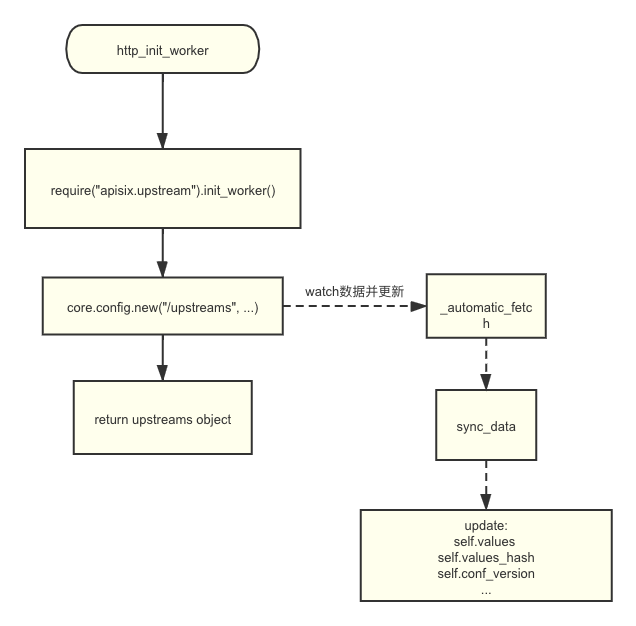
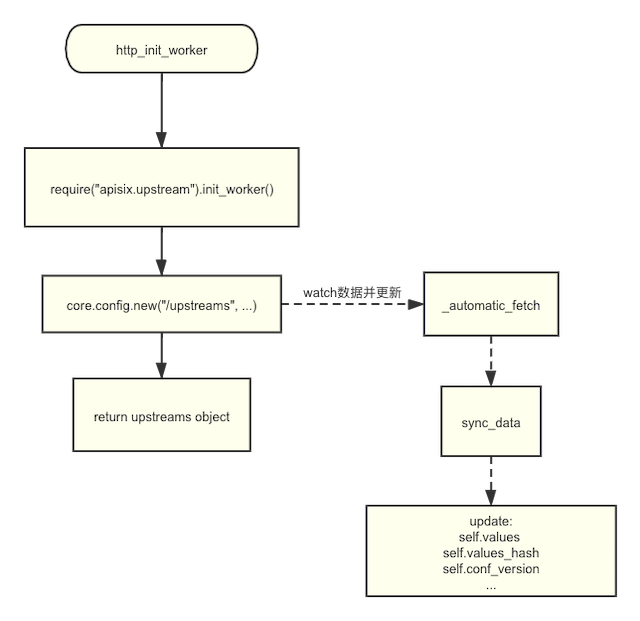
fix png size

diff --git a/code/upstream.md b/code/upstream.md
@@ -9,10 +9,9 @@
 
 ## Upstream init
  在讲fetch_upstream核心代码之前，我们先从源头开始，也就是在_M.http_init_worker(init.lua)阶段对upstream的初始化工作做一个简单的了解:
-
 ![image](https://raw.githubusercontent.com/rockXiaofeng/apisix-book/upstream_learning/code/images/upstream_init.png)
 
-http_init_worker函数还对router、service等均做了init工作, 背后的工作流大同小异,可选项可配置是否使用ngx.timer做watch&update工作。比如router.init_worker()会返回一个user_routes对象, 当请求过来的时候会先调用router.match(),  在match函数内部会判断缓存的版本是否与user_routes的版本一致，若一致则往下走真正的match流程； 若不一致，会重建[radixtree](https://github.com/api7/lua-resty-radixtree). 感慨一下, radixtree的设计思路和代码真的很牛逼！真心建议大家去研读下,本人也基于此写了一个golang版本的高性能网关路由(基于cgo), 重建radixtree的时需要用到user_routes.values这个结构. 那么关于upstream的初始化就讲到这里了.
+http_init_worker函数还对router、service等均做了init工作, 背后的工作流大同小异,可选项可配置是否使用ngx.timer做watch&update工作。比如router.init_worker()会返回一个user_routes对象, 当请求过来的时候会先调用router.match(),  在match函数内部会判断缓存的版本是否与user_routes的版本一致，若一致则往下走真正的match流程； 若不一致，会重建[radixtree](https://github.com/api7/lua-resty-radixtree). 感慨一下, radixtree的设计思路和代码真的很牛逼！真心建议大家去研读下,本人也基于此写了一个golang版本的高性能网关路由(基于cgo). 重建radixtree的时需要用到user_routes.values这个结构. 那么关于upstream的初始化就讲到这里了.
 
 
 ## Fetch upstream
